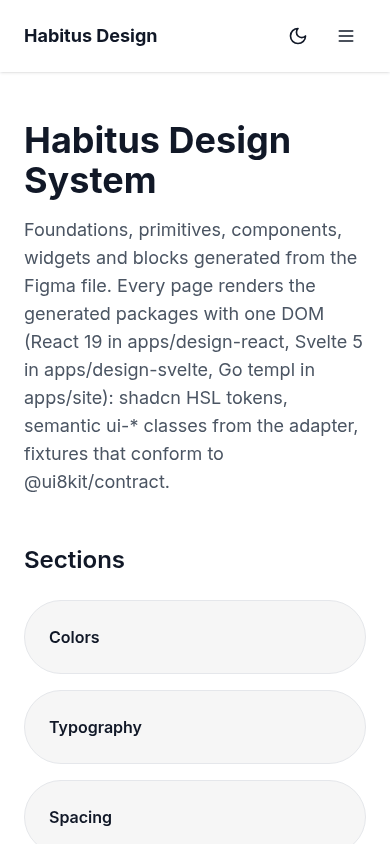
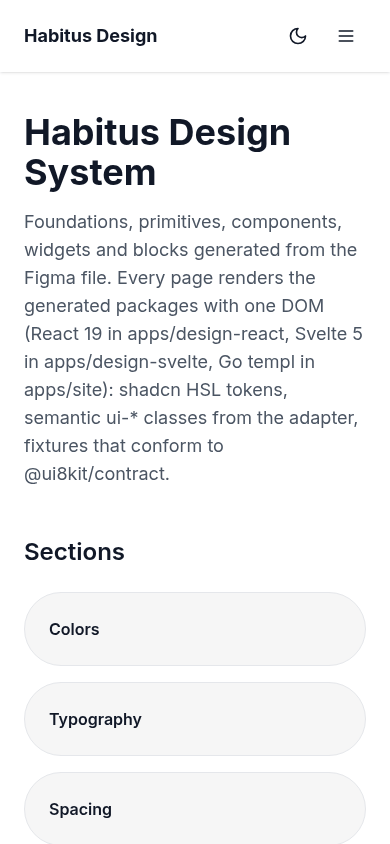
status + docs assets: responsive spacing, layout audit, Vercel root-directory state; refreshed mobile screenshots

diff --git a/.project/STATUS.md b/.project/STATUS.md
@@ -1,4 +1,4 @@
-# Project status (2026-10-18)
+# Project status (2026-10-19)
 
 Stack: @ui8kit/codegen **2.0** (xgen, `github:ui8kit/codegen#2309848`), three apps (site templ, design-svelte, design-react).
 
@@ -10,8 +10,9 @@ Gate: `bun run check` → all checks passed.
 | ui parity | 370 cases: templ 370/370, Svelte 370/370, React 370/370 = canonical; 0 non-`ui-*` classes |
 | blocks parity | 49 cases (39/39 blocks): Svelte 49/49 and React 49/49 identical to templ |
 | design parity | 49 pages: design-react 49/49 DOM-identical to design-svelte |
-| ui8px | 0 blocking (43 UI8PX002 report-only for upstream utilities) |
+| ui8px | 0 blocking (34 upstream codegen 2.0 utilities + 6 container-query variants report-only) |
 | lint-apps (retag + block rules) | 0 blocking, 5 baselined, 139 report-only (literal-text) |
+| layout audit | 396 page×width checks (site + 49 + 49 pages × 390/768/1024/1440): 0 overflow, 0 edge (nothing within 8px of a bordered/filled surface edge); 4 media warnings |
 | links | 0 broken |
 | builds | site; design-svelte 49 pages; design-react 49 pages; packages compile standalone |
 
@@ -26,7 +27,7 @@ Behaviour: `bun run test:behaviors` → 27/27 ok (sheet focus trap, Esc, overlay
 - **apps/design-svelte** — SvelteKit (Svelte 5), adapter-static.
   - Pages: overview; foundations (colors incl. a light/dark preview and light + dark brand groups, typography, 8+4 spacing, radius, shadows); primitives + components (40 codegen 2.0 bricks); widgets; 39 block pages. App parts are retagged onto primitives (`src/lib`: NavTree, PageHeader, Pager, Section, ShowcasePart, Sidebar, Topbar).
   - Dark mode: ThemeToggle in the sidebar head and mobile top bar; theme-init is injected by hooks.server.
-  - Mobile: the sidebar becomes a left Sheet below `lg`.
+  - Mobile/tablet: the sidebar becomes a left Sheet below `xl` (1280px), so block previews get the full width.
 - **apps/design-react** — React 19, Vite client + SSR build, static prerender of the same 49 pages (no client React). Shares nav, page data, showcase transforms and `ds-*` CSS with design-svelte via `packages/design-docs`.
 - **packages**
   - ui: 40 codegen 2.0 bricks (ThemeToggle and Sheet are now upstream) in templ + Svelte 5 + React 19, recipe overrides in `packages/ui/recipes`, with parity.
@@ -35,6 +36,7 @@ Behaviour: `bun run test:behaviors` → 27/27 ok (sheet focus trap, Esc, overlay
   - tokens: shadcn HSL light + dark, `dark` custom variant, `text-display` + `max-w-page`.
 - **Tokens** — only `--brand-*` colors (light + dark) are app-level, guarded in check. The packages compile standalone without brand.css.
 - **Design settings** (`docs/design-settings.md`) — one corner token `--radius: 2.5rem` in `@theme` (plain `rounded` = pill on controls, 40px on cards); button sizes `sm h-8 px-3`, `default h-10 px-6`, `lg h-12 px-6`, `xl h-14 px-10`; section spacing step 28 (112px).
+- **Responsive spacing** (2026-10-19) — every block has the gutter `px-6 md:px-10 lg:px-12`, section/card/panel padding and gaps step down on tablet and mobile, card grids 1/2/3 columns, media by aspect ratio; desktop values at `lg`/`xl`, so 1440 fidelity is unchanged (`docs/design-settings.md#responsive-spacing`). Enforced by `tools/audit-layout.ts` in check.
 - **ui8px** — 0 blocking; policy = codegen 2.0 grid ∩ the rhythm in `tools/ui8px/allowed.base.json` (layout 0 2 4 6 8 10 12 16 20 24 28; controls 0–8 10 12 14), generated by `tools/ui8px-policy.ts`, gated by `tools/ui8px-gate.ts`.
 - **lint-apps** — `tools/lint-apps.ts` runs the codegen 2.0 rules detectors + an inline-style detector on app sources and generated blocks; baseline `tools/lint-apps.baseline.json` (5 entries; stale entries fail).
 - **.cursor** — rules: pipeline, grid-8-4, tokens, adapter-no-inline-styles, blocks-retag, fixtures-contract, git-workflow, dark-mode, sheet. Skill: figma-to-site.
@@ -50,7 +52,9 @@ Behaviour: `bun run test:behaviors` → 27/27 ok (sheet focus trap, Esc, overlay
   - Optimized copies for the README: `docs/assets/` (`tools/docs-assets.py`).
 
 ## Partial / open
-- **Vercel** — configs build locally (dry run of install + build commands verified 2026-10-18); no real deploy has been verified.
+- **Vercel** — `saas-templ` (apps/site) deploys on every push. `saas-design` (saas-svelte.vercel.app, design-svelte) fails on every push since ab8add8 because its Root Directory is still `apps/design`; it must be set to `apps/design-svelte` in the dashboard (a temporary shim, e3ea8ee, deployed fine and proved this). The live site serves the e3ea8ee build. design-react needs a third project (`docs/deploy-vercel.md`).
+- **Layout audit warnings** — hero-split / feature-split art at 768: the phone covers ~24% of the art box (warning only). At `md` the third blog card sits alone in row 2. The outline badge border is low contrast in dark.
+- **ui8px container queries** — the navbar uses `@container` / `@5xl:`; ui8px has no grammar for them, so the gate keeps them report-only (backlog `ui8px-container-queries.md`).
 - **Other runtimes** — Vue/Solid/Twig/Latte/Jinja2: codegen 2.0 can emit primitives; no parity, block emitter or app yet (`docs/add-a-runtime.md`, React is the worked example).
 - **Kit tokens** — the 2.0 per-element tokens (`--radius-card`, `data-density-*`) key on `[data-slot].<utility>` and never reach `ui-*` markup (backlog `codegen2-kit-css-layering.md`). Corner/density changes go through `--radius` and recipe overrides instead.
 - **Corners** — with `--radius` = 40px, textarea, alert and dialog also get 40px corners (accepted, checked visually; see `docs/design-settings.md`).
